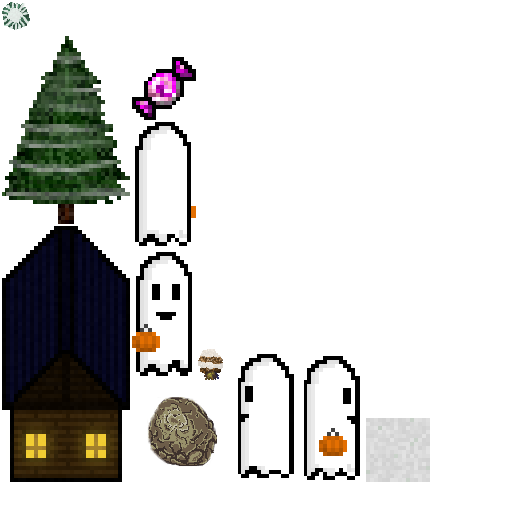
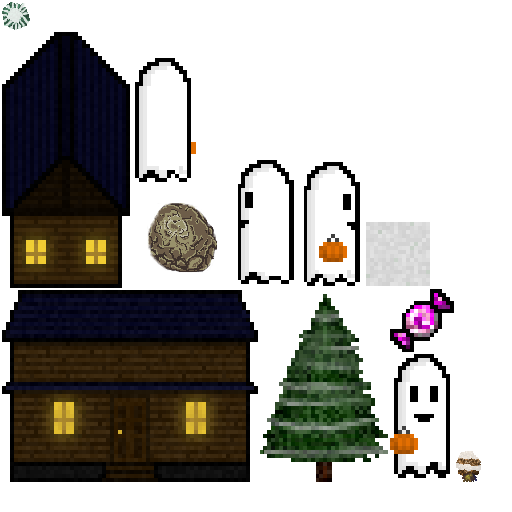
Added Horizontal House
*The actual map
*Tiles
*Assets: added horizontal house, changed "house" to vertical house
*Level: Makes the thing render the new thing.

diff --git a/Spooky/core/src/com/vgdc/spooky/Level.java b/Spooky/core/src/com/vgdc/spooky/Level.java
@@ -11,7 +11,8 @@ import com.vgdc.objects.AbstractGameObject;
 import com.vgdc.objects.Bush;
 import com.vgdc.objects.Candy;
 import com.vgdc.objects.Floor;
-import com.vgdc.objects.House;
+import com.vgdc.objects.HorizontalHouse;
+import com.vgdc.objects.VerticalHouse;
 import com.vgdc.objects.Player;
 import com.vgdc.objects.Rock;
 import com.vgdc.objects.Tree;
@@ -47,7 +48,8 @@ public class Level implements Disposable {
 		ROCK   (255, 0, 0),	// Red
 		PLAYER (255, 255, 255), // White
 		CANDY  (255, 0, 255), // Magenta
-		HOUSE (0, 255, 255);	// Cyan
+		VERTICAL_HOUSE (0, 255, 255),	// Cyan
+		HORIZONTAL_HOUSE(0, 0, 255);	// Blue
 
 		private int color;
 
@@ -95,7 +97,8 @@ public class Level implements Disposable {
 	public Array<Rock> rocks;
 	public Array<Floor> tiles;
 	public Array<Candy> candies;
-	public Array<House> houses;
+	public Array<VerticalHouse> verticalHouses;
+	public Array<HorizontalHouse> horizontalHouses;
 
 	public Player player;
 
@@ -113,7 +116,8 @@ public class Level implements Disposable {
 		rocks = new Array<Rock>();
 		tiles = new Array<Floor>();
 		candies = new Array<Candy>();
-		houses = new Array<House>();
+		verticalHouses = new Array<VerticalHouse>();
+		horizontalHouses = new Array<HorizontalHouse>();
 		for (int pixelY = 0; pixelY < pixmap.getHeight(); pixelY++) {
 			for (int pixelX = 0; pixelX < pixmap.getWidth(); pixelX++) {
 				AbstractGameObject obj = null;
@@ -176,11 +180,18 @@ public class Level implements Disposable {
 					candies.add((Candy)obj);
 				}
 				
-				// House
-				else if (TILE.HOUSE.sameColor(currentPixel)) {
-					obj = new House();
+				// Vertical House
+				else if (TILE.VERTICAL_HOUSE.sameColor(currentPixel)) {
+					obj = new VerticalHouse();
 					obj.position.set(pixelX, baseHeight);
-					houses.add((House)obj);
+					verticalHouses.add((VerticalHouse)obj);
+				}
+				
+				// Horizontal House
+				else if (TILE.HORIZONTAL_HOUSE.sameColor(currentPixel)) {
+					obj = new HorizontalHouse();
+					obj.position.set(pixelX, baseHeight);
+					horizontalHouses.add((HorizontalHouse)obj);
 				}
 
 				else if (TILE.GROUND.sameColor(currentPixel)) {
@@ -236,7 +247,10 @@ public class Level implements Disposable {
 
 			player.render(batch);
 			// Draw houses
-			for (House house: houses)
+			for (VerticalHouse house: verticalHouses)
+				house.render(batch);
+			// Draw horizontal houses
+			for (HorizontalHouse house: horizontalHouses)
 				house.render(batch);
 		}
 	}
@@ -254,7 +268,9 @@ public class Level implements Disposable {
 			rock.update(deltaTime);
 		
 		// Houses
-		for (House house: houses)
+		for (VerticalHouse house: verticalHouses)
+			house.update(deltaTime);
+		for (HorizontalHouse house: horizontalHouses)
 			house.update(deltaTime);
 		// Bushes
 		for (Bush bush: bushes)

diff --git a/Spooky/core/src/com/vgdc/spooky/Assets.java b/Spooky/core/src/com/vgdc/spooky/Assets.java
@@ -37,7 +37,9 @@ public class Assets implements Disposable, AssetErrorListener
 	public AssetAbeLeft left;
 	public AssetAbeRight right;
 	public AssetCandy candy;
-	public AssetHouse house;
+	public VerticalHouse vHouse;
+	public HorizontalHouse hHouse;
+	
 
 	public void init (AssetManager assetManager) {
 		this.assetManager = assetManager;
@@ -74,7 +76,8 @@ public class Assets implements Disposable, AssetErrorListener
 		left = new AssetAbeLeft(atlas);
 		right = new AssetAbeRight(atlas);
 		candy = new AssetCandy(atlas);
-		house = new AssetHouse(atlas);
+		vHouse = new VerticalHouse(atlas);
+		hHouse = new HorizontalHouse(atlas);
 		
 	}
 	@Override
@@ -177,12 +180,21 @@ public class Assets implements Disposable, AssetErrorListener
 		}
 	}
 	
-	public class AssetHouse
+	public class VerticalHouse
 	{
-		public final AtlasRegion house;
-		public AssetHouse(TextureAtlas atlas)
+		public final AtlasRegion vHouse;
+		public VerticalHouse(TextureAtlas atlas)
 		{
-			house = atlas.findRegion("vertical-house");
+			vHouse = atlas.findRegion("vertical-house");
+		}
+	}
+	
+	public class HorizontalHouse
+	{
+		public final AtlasRegion hHouse;
+		public HorizontalHouse(TextureAtlas atlas)
+		{
+			hHouse = atlas.findRegion("horizontal-house");
 		}
 	}
 

diff --git a/Spooky/core/src/com/vgdc/objects/HorizontalHouse.java b/Spooky/core/src/com/vgdc/objects/HorizontalHouse.java
@@ -1,0 +1,39 @@
+package com.vgdc.objects;
+
+import com.badlogic.gdx.graphics.g2d.SpriteBatch;
+import com.badlogic.gdx.graphics.g2d.TextureRegion;
+import com.vgdc.spooky.Assets;
+
+public class HorizontalHouse extends AbstractGameObject {
+	
+	private TextureRegion reg;
+	
+	public HorizontalHouse(){
+		init();
+	}
+	
+	private void init() {
+		dimension.set(8, 6);
+		bounds.set(0, 0, dimension.x, dimension.y);
+		origin.set(dimension.x/2, dimension.y/2);
+		reg = Assets.instance.hHouse.hHouse;
+	}
+	@Override
+	public void render(SpriteBatch batch) {
+		batch.draw(reg.getTexture(), position.x, position.y,
+				origin.x, origin.y, dimension.x, dimension.y,
+				scale.x, scale.y, rotation, reg.getRegionX(), reg.getRegionY(),
+				reg.getRegionWidth(), reg.getRegionHeight(), false, false);
+			
+	}
+	
+	@Override
+	public float getWidth() {
+		return reg.getRegionWidth();
+	}
+	
+	@Override
+	public float getHeight() {
+		return reg.getRegionHeight();
+	}
+}

diff --git a/Spooky/core/src/com/vgdc/objects/VerticalHouse.java b/Spooky/core/src/com/vgdc/objects/VerticalHouse.java
@@ -1,0 +1,40 @@
+package com.vgdc.objects;
+
+import com.badlogic.gdx.graphics.g2d.SpriteBatch;
+import com.badlogic.gdx.graphics.g2d.TextureRegion;
+import com.vgdc.spooky.Assets;
+
+public class VerticalHouse extends AbstractGameObject{
+
+	private TextureRegion reg;
+	
+	public VerticalHouse() {
+		init();
+	}
+	
+	private void init() {
+		dimension.set(4,8);
+		bounds.set(0, 0, dimension.x, dimension.y);
+		origin.set(dimension.x/2, dimension.y/2);
+		reg = Assets.instance.vHouse.vHouse;
+	}
+	@Override
+	public void render(SpriteBatch batch) {
+		batch.draw(reg.getTexture(), position.x, position.y,
+				origin.x, origin.y, dimension.x, dimension.y,
+				scale.x, scale.y, rotation, reg.getRegionX(), reg.getRegionY(),
+				reg.getRegionWidth(), reg.getRegionHeight(), false, false);
+		
+	}
+
+	@Override
+	public float getWidth() {
+		return reg.getRegionWidth();
+	}
+
+	@Override
+	public float getHeight() {
+		return reg.getRegionHeight();
+	}
+
+}
